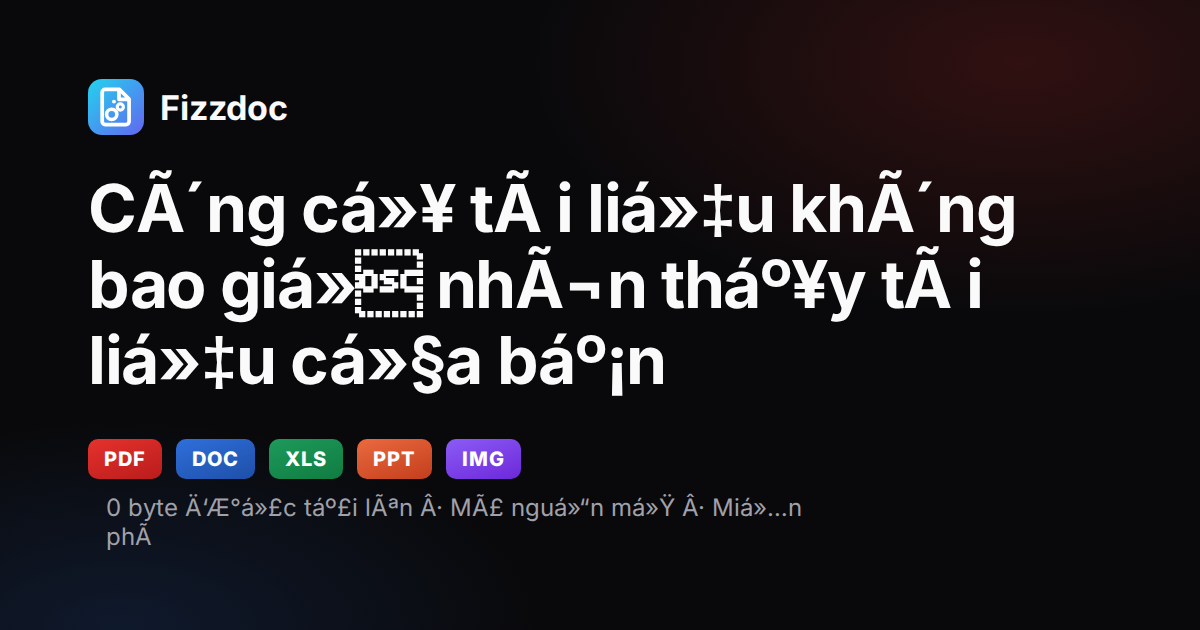
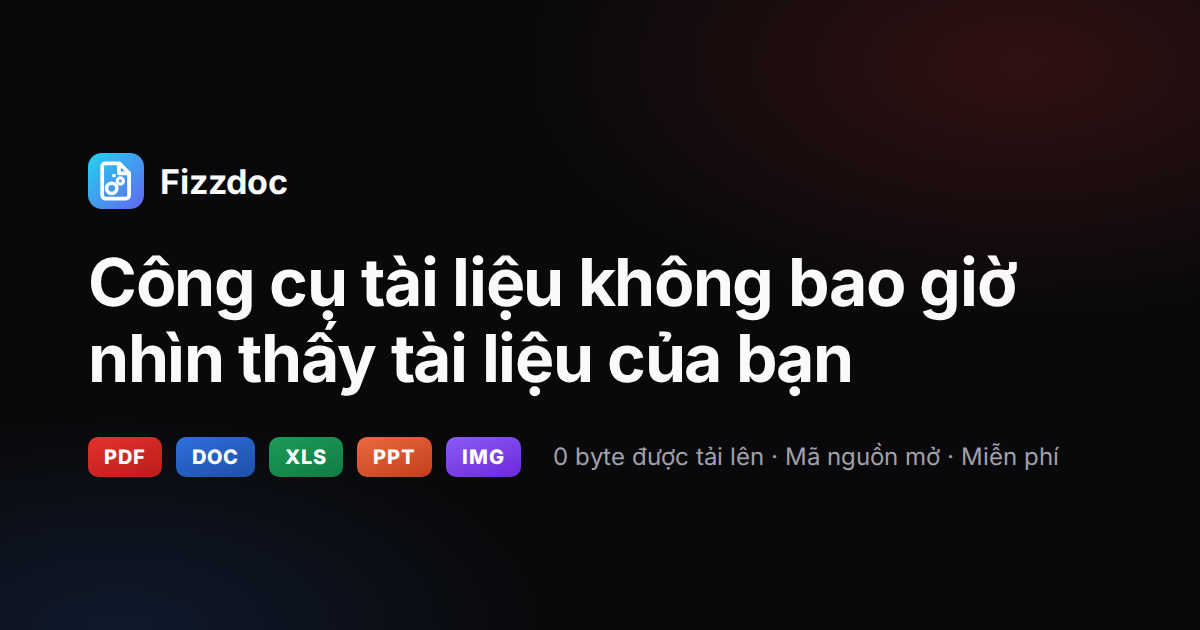
Image compression never returns a bigger file; native review of all translations
- Compress images keeps the original when re-encoding doesn't shrink it,
  unless it carries EXIF/XMP metadata that must still be removed
- Regression tests for mid-edit Undo and image compression
- Review fixes in Tamil, Telugu, Indonesian, Dutch; refreshed social cards

diff --git a/tests/app.e2e.ts b/tests/app.e2e.ts
@@ -151,6 +151,13 @@ test('resizes and converts images with the chosen options', async ({ page }) => 
   await page.getByRole('button', { name: 'Convert images' }).click();
   await expect(page.locator('#status')).toContainText('Done — 2 images');
   expect((await downloadBytes(page)).name).toBe('images-resized.zip');
+
+  // Compressing an already-small image never makes it bigger.
+  await page.goto('/compress-image/');
+  await page.locator('#file-input').setInputFiles(file('photo.jpg'));
+  await page.locator('input[name="quality"]').fill('100');
+  await page.getByRole('button', { name: 'Compress images' }).click();
+  expect((await downloadBytes(page)).bytes.length).toBeLessThanOrEqual(readFileSync(file('photo.jpg')).length);
 });
 
 test('converts PDFs to text, Markdown, Word and PowerPoint', async ({ page }) => {
@@ -216,6 +223,13 @@ test('edits PDF text in place and saves on the device', async ({ page, baseURL }
   await page.goto('/edit-pdf/');
   await page.locator('#file-input').setInputFiles(fixture('text-only'));
   const viewer = page.locator('#viewer');
+  const undo = page.getByRole('button', { name: 'Undo' });
+  // Undo while still typing reverts that edit, so only the next one is saved.
+  await viewer.locator('.edit-hitbox').nth(1).click();
+  await page.keyboard.type('Oops');
+  await expect(undo).toBeEnabled();
+  await undo.click();
+  await expect(undo).toBeDisabled();
   await viewer.locator('.edit-hitbox').first().click();
   await page.keyboard.press('ControlOrMeta+A');
   await page.keyboard.type('Replaced text');

diff --git a/src/engine/compress.ts b/src/engine/compress.ts
@@ -270,6 +270,12 @@ function uniqueName(used: Set<string>, name: string) {
   return alt;
 }
 
+/** True if an image file carries EXIF or XMP metadata (JPEG APP1, PNG eXIf/iTXt, WebP EXIF/XMP chunks). */
+function hasMetadata(data: Uint8Array) {
+  const head = new TextDecoder('latin1').decode(data.subarray(0, 256 * 1024));
+  return /Exif\0\0|eXIf|EXIF|XMP |x:xmpmeta/.test(head);
+}
+
 /** Resizes and/or recompresses one or more images; metadata such as EXIF/GPS is dropped as a side effect of re-encoding. */
 export async function convertImages(files: File[], options: ConvertOptions): Promise<Output> {
   if (options.width !== undefined && (options.width < 1 || options.width > 16384)) throw new LocalError('BAD_SIZE');
@@ -301,7 +307,12 @@ export async function convertImages(files: File[], options: ConvertOptions): Pro
     ctx.imageSmoothingQuality = 'high';
     ctx.drawImage(resized, 0, 0, size.width, size.height);
     const blob = await canvas.convertToBlob(type === 'image/png' ? { type } : { type, quality: options.quality });
-    const data = await bytes(blob);
+    let data = await bytes(blob);
+    // Same format and size but no smaller: keep the original, unless it carries EXIF/XMP (e.g. GPS) that re-encoding strips.
+    if (type === file.type && resized === bitmap && data.length >= file.size) {
+      const original = await bytes(file);
+      if (!hasMetadata(original)) data = original;
+    }
     totalBefore += file.size;
     totalAfter += data.length;
     const extension = IMAGE_EXT[type] ?? 'png';
